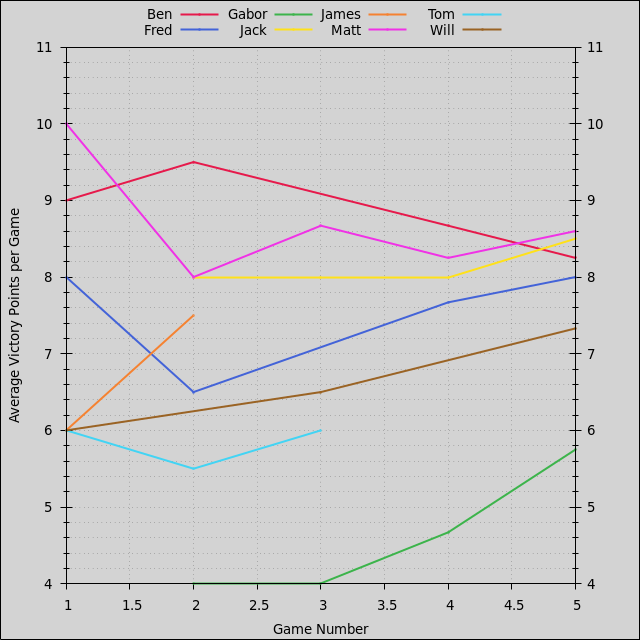
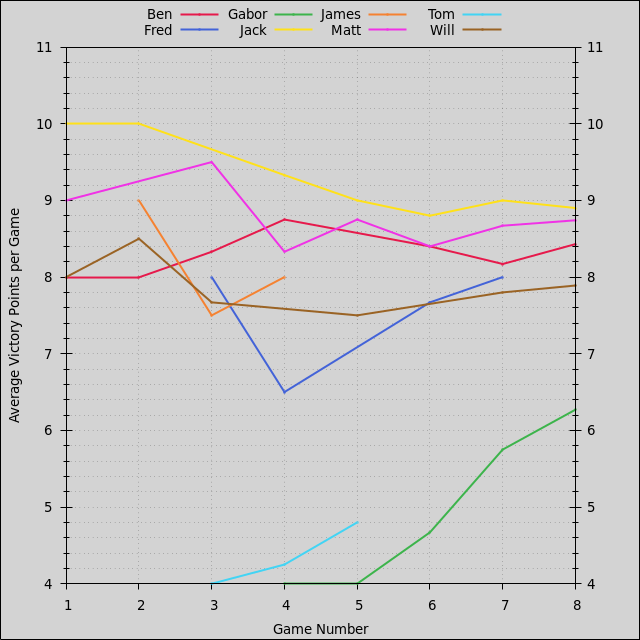
Update leaderboard.

diff --git a/leaderboard/README.md b/leaderboard/README.md
@@ -4,7 +4,7 @@
 - [Games](#games)
 - [License](#license)
 
-Last updated 2024-02-25 00:46 UTC.
+Last updated 2024-03-21 16:12 UTC.
 
 # Players
 
@@ -19,15 +19,16 @@ Last updated 2024-02-25 00:46 UTC.
 
 | **Player** | **Games** | **Curr. Rating** | **Avg Rating** | **Avg Pts.** | **Win Rate** | **1st Place** | **2nd Place** | **3rd Place** |
 | :--- | :---: | :---: | :---: | :---: | :---: | :---: | :---: | :---: |
-| Jack | 4 | 1258 | 1156 | 8.50 | 25% | 25% (1) | 50% (2) | 25% (1) |
-| Matt | 5 | 1168 | 1145 | 8.60 | 40% | 40% (2) | 20% (1) | 0% (0) |
-| Ben | 4 | 992 | 1133 | 8.25 | 29% | 25% (1) | 25% (1) | 25% (1) |
-| James | 2 | 1146 | 1084 | 7.50 | 0% | 0% (0) | 50% (1) | 0% (0) |
-| Fred | 4 | 1012 | 1040 | 8.00 | 21% | 25% (1) | 0% (0) | 25% (1) |
-| Will | 3 | 1030 | 962 | 7.33 | 0% | 0% (0) | 0% (0) | 67% (2) |
-| Tom | 3 | 928 | 956 | 6.00 | 0% | 0% (0) | 0% (0) | 0% (0) |
-| Marcus | 1 | 846 | 846 | 6.00 | 0% | 0% (0) | 0% (0) | 0% (0) |
-| Gabor | 4 | 848 | 819 | 5.75 | 0% | 0% (0) | 0% (0) | 0% (0) |
+| Jack | 7 | 1178 | 1203 | 8.90 | 40% | 43% (3) | 29% (2) | 14% (1) |
+| Matt | 7 | 1219 | 1163 | 8.74 | 29% | 29% (2) | 43% (3) | 0% (0) |
+| James | 3 | 1174 | 1106 | 8.00 | 0% | 0% (0) | 67% (2) | 0% (0) |
+| Ben | 7 | 1144 | 1082 | 8.43 | 29% | 29% (2) | 14% (1) | 14% (1) |
+| Fred | 4 | 1026 | 1046 | 8.00 | 21% | 25% (1) | 0% (0) | 25% (1) |
+| Will | 6 | 1063 | 1007 | 7.89 | 0% | 0% (0) | 0% (0) | 83% (5) |
+| George | 1 | 924 | 924 | 7.00 | 0% | 0% (0) | 0% (0) | 0% (0) |
+| Tom | 5 | 889 | 866 | 4.80 | 0% | 0% (0) | 0% (0) | 0% (0) |
+| Marcus | 1 | 839 | 839 | 6.00 | 0% | 0% (0) | 0% (0) | 0% (0) |
+| Gabor | 5 | 813 | 823 | 6.27 | 0% | 0% (0) | 0% (0) | 0% (0) |
 
 Average victory points per game are adjusted relative to 10-point games, and effective win rates are calculated relative to 6-player games.
 
@@ -68,26 +69,30 @@ Effective win rates are calculated relative to 6-player games.
 
 | **Faction** | **Games** | **Curr. Rating** | **Avg Rating** | **Avg Pts.** | **Win Rate** | **1st Place** | **2nd Place** | **3rd Place** |
 | :--- | :---: | :---: | :---: | :---: | :---: | :---: | :---: | :---: |
-| Nomad | 3 | 1176 | 1188 | 9.00 | 67% | 67% (2) | 0% (0) | 33% (1) |
-| Yin Brotherhood | 2 | 1130 | 1145 | 8.50 | 58% | 50% (1) | 0% (0) | 50% (1) |
-| Winnu | 1 | 1128 | 1128 | 10.00 | 83% | 100% (1) | 0% (0) | 0% (0) |
-| L1z1x Mindnet | 1 | 1114 | 1114 | 9.00 | 0% | 0% (0) | 100% (1) | 0% (0) |
-| Argent Flight | 1 | 1085 | 1085 | 8.00 | 0% | 0% (0) | 100% (1) | 0% (0) |
-| Naaz-Rokha Alliance | 1 | 1075 | 1075 | 8.00 | 0% | 0% (0) | 0% (0) | 100% (1) |
-| Mentak Coalition | 1 | 1075 | 1075 | 10.00 | 0% | 0% (0) | 100% (1) | 0% (0) |
-| Empyrean | 2 | 978 | 1048 | 7.50 | 0% | 0% (0) | 50% (1) | 0% (0) |
-| Embers of Muaat | 2 | 1008 | 1039 | 6.50 | 0% | 0% (0) | 0% (0) | 50% (1) |
-| Ghosts of Creuss | 1 | 1022 | 1022 | 6.00 | 0% | 0% (0) | 0% (0) | 0% (0) |
-| Arborec | 2 | 929 | 978 | 7.50 | 0% | 0% (0) | 0% (0) | 0% (0) |
-| Mahact Gene-Sorcerers | 1 | 973 | 973 | 9.00 | 0% | 0% (0) | 0% (0) | 0% (0) |
-| Naalu Collective | 1 | 969 | 969 | 6.00 | 0% | 0% (0) | 0% (0) | 0% (0) |
-| Xxcha Kingdom | 1 | 965 | 965 | 7.00 | 0% | 0% (0) | 0% (0) | 0% (0) |
-| Vuil'raith Cabal | 2 | 975 | 943 | 6.50 | 0% | 0% (0) | 0% (0) | 50% (1) |
-| Emirates of Hacan | 2 | 1034 | 943 | 7.00 | 50% | 50% (1) | 0% (0) | 0% (0) |
-| Nekro Virus | 1 | 915 | 915 | 5.00 | 0% | 0% (0) | 0% (0) | 0% (0) |
-| Federation of Sol | 2 | 976 | 911 | 7.00 | 0% | 0% (0) | 50% (1) | 0% (0) |
+| Nomad | 4 | 1095 | 1170 | 8.83 | 50% | 50% (2) | 0% (0) | 25% (1) |
+| Yin Brotherhood | 2 | 1149 | 1160 | 8.50 | 58% | 50% (1) | 0% (0) | 50% (1) |
+| Winnu | 2 | 1172 | 1150 | 9.58 | 42% | 50% (1) | 50% (1) | 0% (0) |
+| L1z1x Mindnet | 2 | 1173 | 1142 | 9.50 | 42% | 50% (1) | 50% (1) | 0% (0) |
+| Argent Flight | 2 | 1099 | 1097 | 8.17 | 0% | 0% (0) | 50% (1) | 50% (1) |
+| Naaz-Rokha Alliance | 1 | 1086 | 1086 | 8.00 | 0% | 0% (0) | 0% (0) | 100% (1) |
+| Empyrean | 2 | 985 | 1057 | 7.50 | 0% | 0% (0) | 50% (1) | 0% (0) |
+| Arborec | 3 | 969 | 1047 | 8.00 | 0% | 0% (0) | 33% (1) | 0% (0) |
+| Naalu Collective | 2 | 1120 | 1044 | 8.00 | 42% | 50% (1) | 0% (0) | 0% (0) |
+| Sardakk N'orr | 3 | 897 | 1033 | 8.00 | 33% | 33% (1) | 0% (0) | 0% (0) |
+| Embers of Muaat | 3 | 1016 | 1023 | 7.00 | 0% | 0% (0) | 0% (0) | 33% (1) |
+| Mahact Gene-Sorcerers | 2 | 1004 | 1023 | 9.00 | 0% | 0% (0) | 0% (0) | 50% (1) |
+| Ghosts of Creuss | 1 | 1021 | 1021 | 6.00 | 0% | 0% (0) | 0% (0) | 0% (0) |
+| Nekro Virus | 2 | 958 | 1011 | 7.00 | 0% | 0% (0) | 50% (1) | 0% (0) |
+| Yssaril Tribes | 1 | 1011 | 1011 | 8.00 | 0% | 0% (0) | 0% (0) | 100% (1) |
+| Xxcha Kingdom | 1 | 963 | 963 | 7.00 | 0% | 0% (0) | 0% (0) | 0% (0) |
+| Emirates of Hacan | 2 | 1050 | 956 | 7.00 | 50% | 50% (1) | 0% (0) | 0% (0) |
+| Vuil'raith Cabal | 2 | 989 | 955 | 6.50 | 0% | 0% (0) | 0% (0) | 50% (1) |
+| Barony of Letnev | 1 | 952 | 952 | 8.00 | 0% | 0% (0) | 0% (0) | 0% (0) |
+| Mentak Coalition | 2 | 1007 | 937 | 7.00 | 0% | 0% (0) | 50% (1) | 0% (0) |
+| Universities of Jol-Nar | 1 | 916 | 916 | 8.33 | 0% | 0% (0) | 0% (0) | 0% (0) |
 | Titans of Ul | 1 | 910 | 910 | 6.00 | 0% | 0% (0) | 0% (0) | 0% (0) |
-| Sardakk N'orr | 2 | 836 | 905 | 7.00 | 0% | 0% (0) | 0% (0) | 0% (0) |
+| Federation of Sol | 3 | 949 | 897 | 7.00 | 0% | 0% (0) | 33% (1) | 0% (0) |
+| Clan of Saar | 1 | 888 | 888 | 2.00 | 0% | 0% (0) | 0% (0) | 0% (0) |
 
 Average victory points per game are adjusted relative to 10-point games, and effective win rates are calculated relative to 6-player games.
 
@@ -131,11 +136,14 @@ Effective win rates are calculated relative to 6-player games.
 
 | **Game** | **Date** | **Mode** | **Points** | **Players** | **Results** |
 | :---: | :---: | :---: | :---: | :---: | :--- |
-| 5 | 2024-02-24 | Free-for-All | 10 | 6 | 24h00m, 1st Jack 10 Emirates of Hacan, 2nd Matt 10 Mentak Coalition, 3rd Will 9 Vuil'raith Cabal, 4th Gabor 9 Mahact Gene-Sorcerers, 5th Fred 9 Arborec, 6th Ben 7 Sardakk N'orr |
-| 4 | 2023-12-14 | Free-for-All | 10 | 5 | 14h00m, 1st Fred 10 Winnu, 2nd Jack 8 Federation of Sol, 3rd Ben 7 Nomad, 4th Matt 7 Xxcha Kingdom, 5th Gabor 6 Empyrean |
-| 3 | 2023-10-23 | Free-for-All | 10 | 5 | 7h00m, 1st Matt 10 Nomad, 2nd Jack 8 Argent Flight, 3rd Will 7 Yin Brotherhood, 4th Tom 7 Sardakk N'orr, 5th Gabor 4 Vuil'raith Cabal |
-| 2 | 2023-08-23 | Free-for-All | 10 | 7 | 12h00m, 1st Ben 10 Yin Brotherhood, 2nd James 9 Empyrean, 3rd Jack 8 Naaz-Rokha Alliance, 4th Matt 6 Arborec, 5th Tom 5 Embers of Muaat, 6th Fred 5 Nekro Virus, 7th Gabor 4 Emirates of Hacan |
-| 1 | 2023-04-23 | Free-for-All | 10 | 7 | 12h00m, 1st Matt 10 Nomad, 2nd Ben 9 L1z1x Mindnet, 3rd Fred 8 Embers of Muaat, 4th James 6 Ghosts of Creuss, 5th Tom 6 Naalu Collective, 6th Will 6 Titans of Ul, 7th Marcus 6 Federation of Sol |
+| 8 | 2024-03-19 | Free-for-All | 12 | 5 | 24h00m, 1st Ben 12 Naalu Collective, 2nd Matt 11 Winnu, 3rd Will 10 Argent Flight, 4th Jack 10 Nomad, 5th Gabor 10 Universities of Jol-Nar |
+| 7 | 2024-02-24 | Free-for-All | 10 | 6 | 24h00m, 1st Jack 10 Emirates of Hacan, 2nd Matt 10 Mentak Coalition, 3rd Will 9 Vuil'raith Cabal, 4th Gabor 9 Mahact Gene-Sorcerers, 5th Fred 9 Arborec, 6th Ben 7 Sardakk N'orr |
+| 6 | 2023-12-14 | Free-for-All | 10 | 5 | 14h00m, 1st Fred 10 Winnu, 2nd Jack 8 Federation of Sol, 3rd Ben 7 Nomad, 4th Matt 7 Xxcha Kingdom, 5th Gabor 6 Empyrean |
+| 5 | 2023-10-23 | Free-for-All | 10 | 5 | 7h00m, 1st Matt 10 Nomad, 2nd Jack 8 Argent Flight, 3rd Will 7 Yin Brotherhood, 4th Tom 7 Sardakk N'orr, 5th Gabor 4 Vuil'raith Cabal |
+| 4 | 2023-08-23 | Free-for-All | 10 | 7 | 12h00m, 1st Ben 10 Yin Brotherhood, 2nd James 9 Empyrean, 3rd Jack 8 Naaz-Rokha Alliance, 4th Matt 6 Arborec, 5th Tom 5 Embers of Muaat, 6th Fred 5 Nekro Virus, 7th Gabor 4 Emirates of Hacan |
+| 3 | 2023-04-23 | Free-for-All | 10 | 7 | 12h00m, 1st Matt 10 Nomad, 2nd Ben 9 L1z1x Mindnet, 3rd Fred 8 Embers of Muaat, 4th James 6 Ghosts of Creuss, 5th Tom 6 Naalu Collective, 6th Will 6 Titans of Ul, 7th Marcus 6 Federation of Sol |
+| 2 | 2022-10-02 | Free-for-All | 10 | 6 | 12h00m, 1st Jack 10 Sardakk N'orr, 2nd James 9 Arborec, 3rd Will 9 Mahact Gene-Sorcerers, 4th Ben 8 Embers of Muaat, 5th George 7 Federation of Sol, 6th Tom 4 Mentak Coalition |
+| 1 | 2022-02-05 | Free-for-All | 10 | 5 | 12h00m, 1st Jack 10 L1z1x Mindnet, 2nd Matt 9 Nekro Virus, 3rd Will 8 Yssaril Tribes, 4th Ben 8 Barony of Letnev, 5th Tom 2 Clan of Saar |
 
 [(Back to Top)](#)
 
